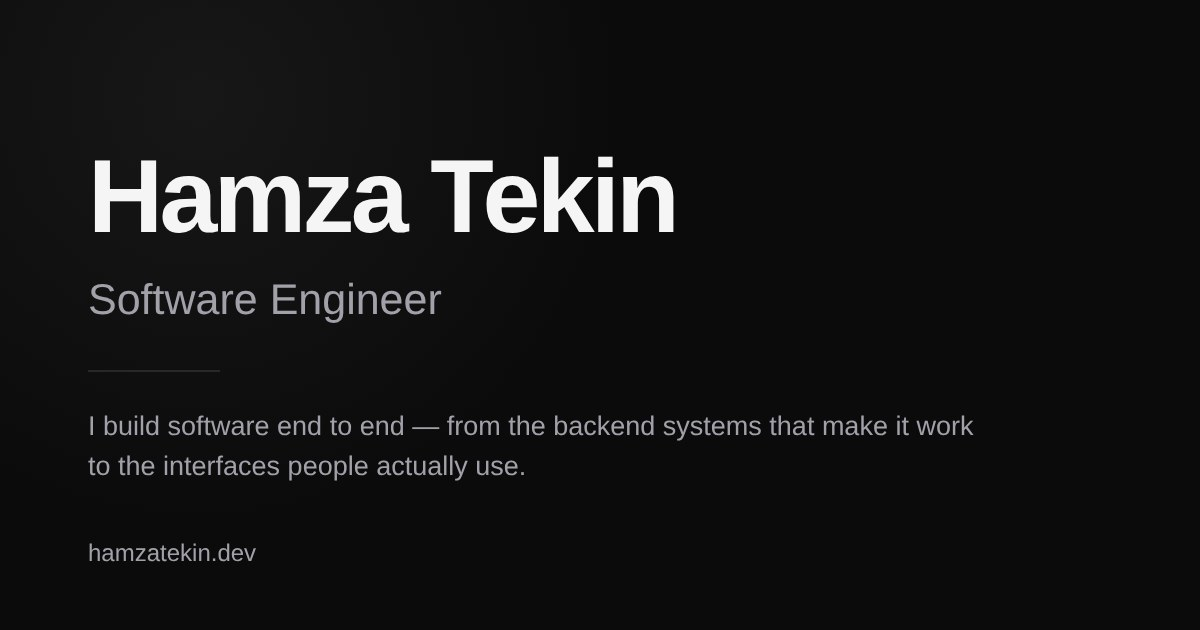
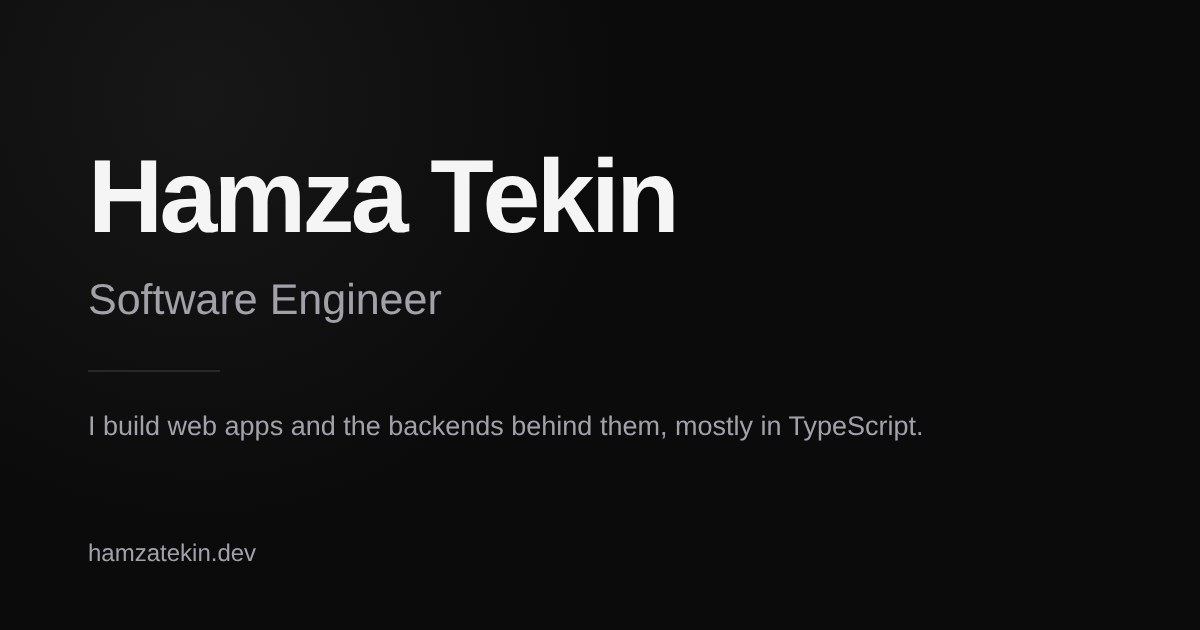
feat: plainer copy, ReviewSolicitors on LinkedIn, and a motion polish pass
Copy, edited against the humanizer skill's list of AI-writing tells
(blader/humanizer, based on Wikipedia's "Signs of AI writing"):

- Tagline is now "I build web apps and the backends behind them, mostly
  in TypeScript." The old one leaned on "from X to the interfaces people
  actually use".
- "How I work" drops the triads, "care deeply", "actually get used" and
  "X over novelty for its own sake", and says the same things plainly.
  The "Ship + iterate / Proven tech, well-used / UX matters" slogan chips
  are removed; the paragraph already covers them.
- Em dashes inside the Currently items become commas, and "1–2 days"
  reads "a day or two".
- Meta description and JSON-LD description follow the new tagline and
  name Nottingham, UK; og-image.jpg is re-rendered with it.

ReviewSolicitors: the role reads Software Engineer in both places, and
the card links to the company's LinkedIn page instead of its website.

The Currently template renders its three parts on one line, because
Astro turns the line breaks between them into a space, which put a
space before the new commas.

Design, following Emil Kowalski's emil-design-eng skill (CSS only, so
the site still ships no JavaScript):

- Overrides Tailwind's --ease-out with cubic-bezier(0.23, 1, 0.32, 1),
  and the page-exit fade drops ease-in for it.
- Buttons, link chips and linked cards scale slightly on :active (0.97,
  0.99 for whole cards), 150-200ms ease-out.
[…]

Changed region(s): [[0.1233, 0.6635, 0.8325, 0.6937], [0.0617, 0.7238, 0.4317, 0.754]]

diff --git a/src/styles/global.css b/src/styles/global.css
@@ -14,6 +14,9 @@
   --color-input: #1a1a1a;
   --color-ring: #3f3f46;
   --color-destructive: #ef4444;
+
+  /* Tailwind's built-in ease-out is too soft; this one responds immediately. */
+  --ease-out: cubic-bezier(0.23, 1, 0.32, 1);
 }
 
 :root {
@@ -33,6 +36,20 @@ body {
   border-radius: 4px;
 }
 
+/* Grows a small link's tap target to 44px tall without moving anything around it. */
+@utility tap-target {
+  position: relative;
+
+  &::before {
+    content: '';
+    position: absolute;
+    inset-inline: 0;
+    top: 50%;
+    height: 44px;
+    translate: 0 -50%;
+  }
+}
+
 /* Cross-document page transitions with no JavaScript. Chromium 126+ and
    Safari 18.2+ cross-fade; Firefox has no support yet and navigates
    instantly, which is the normal behaviour of a link. */
@@ -41,11 +58,11 @@ body {
 }
 
 ::view-transition-old(root) {
-  animation: page-fade-out 90ms ease-in both;
+  animation: page-fade-out 90ms var(--ease-out) both;
 }
 
 ::view-transition-new(root) {
-  animation: page-fade-in 180ms ease-out both;
+  animation: page-fade-in 180ms var(--ease-out) both;
 }
 
 @keyframes page-fade-out {
